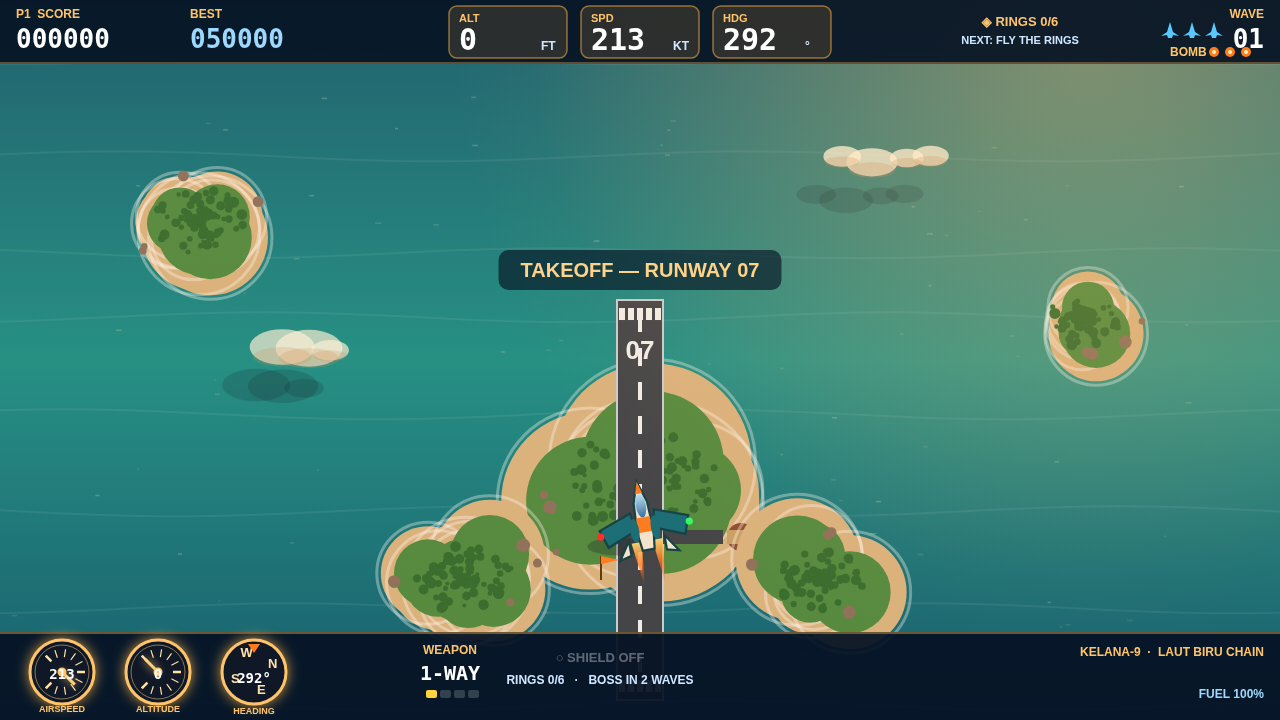
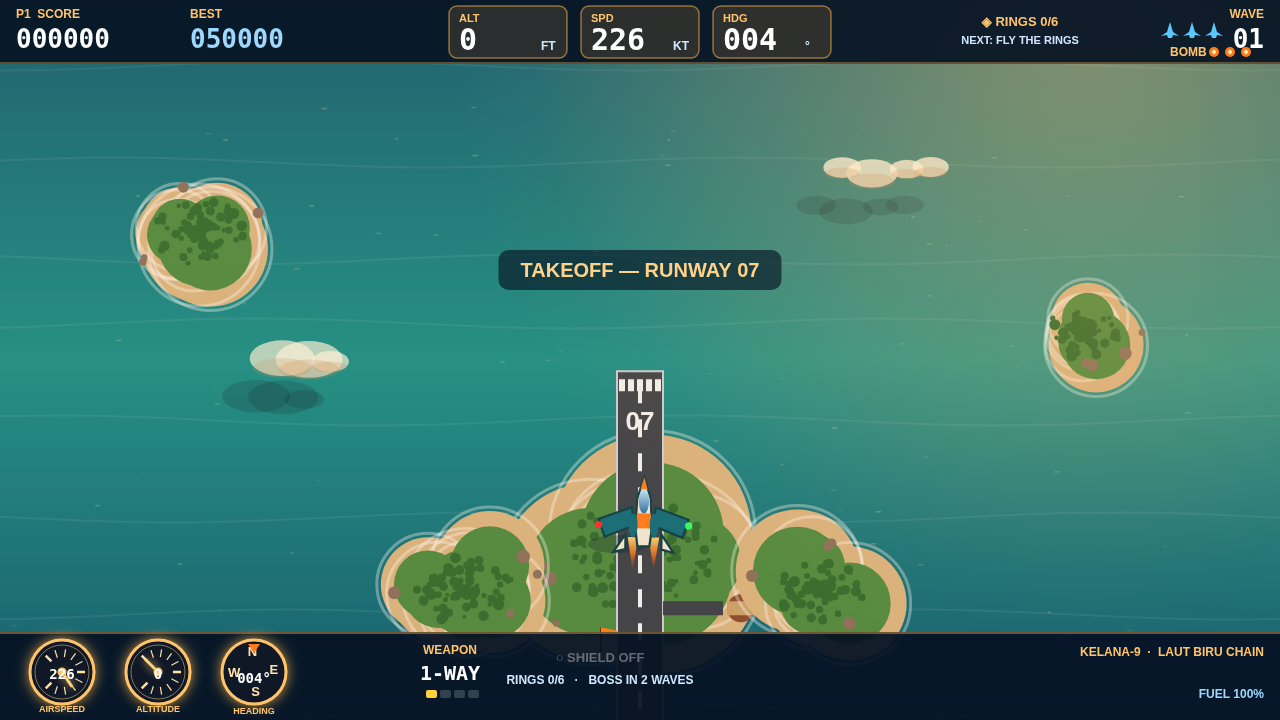
Fix pass 2 (Red Team C1): nose-coherent takeoff pose, shot 2 re-shoot
- Staged takeoff velocity now points north (vx 15, vy -200) so HDG
  reads 004, matching the north-pointing nose on runway 07; was
  vx -200 / vy -80 -> HDG 292, disagreeing with nose and runway.
- Runway island shifted 60 px south in world-y so the plane sits
  further up the runway strip at capture (320 px thumbnail insurance).
  takeoffT stays 0.3, so ALT still reads 0 on the runway.
- Shot 2 re-shot at __shotReady only; shots 1/3/4 untouched.

diff --git a/game/src/game.js b/game/src/game.js
@@ -813,8 +813,16 @@ export function createGame(canvas) {
       G.mode = 'takeoff'; G.takeoffT = 0.3; G.lift = 2;
       G.scrollY = -665; G.scrollSpeed = 90; G.scrollTarget = 150;
       player.x = W() / 2; player.y = H() - BOT_H - 140;
-      // Slight left bank onto runway heading: true heading 292.
-      player.vx = -200; player.vy = -80; player.bank = -0.51;
+      // Nose-coherent (fix pass 2, Red Team C1): velocity straight
+      // up-screen (north), HDG ~004, matching the north-pointing nose
+      // on runway 07. (Was vx -200 / vy -80 -> HDG 292, disagreeing
+      // with both the nose and the runway.)
+      player.vx = 15; player.vy = -200; player.bank = 0.04;
+      // Nudge the plane further up the runway (cheap thumbnail
+      // insurance): shift the runway island 60 px south in world-y so
+      // the plane sits nearer the north end of the strip at capture.
+      // takeoffT stays 0.3 so ALT still reads 0 at capture.
+      world.features.find((f) => f.kind === 'runway').wy += 60;
       // Fill the empty water: widen the runway landmass on both shoulders,
       // plus islands + clouds (with shadows) in the upper frame.
       addIsland(world, W() / 2 - 175, -170, 90);
